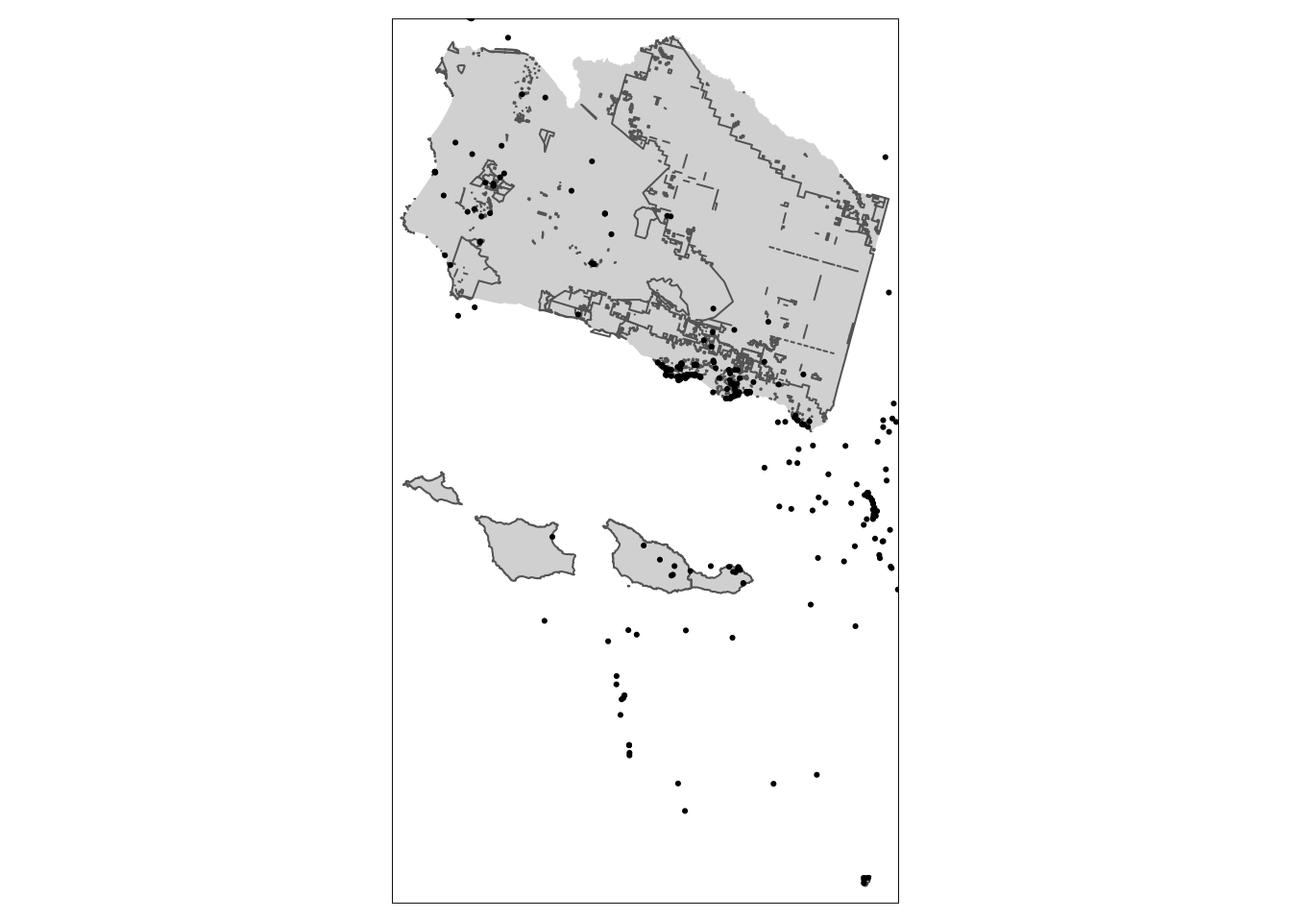
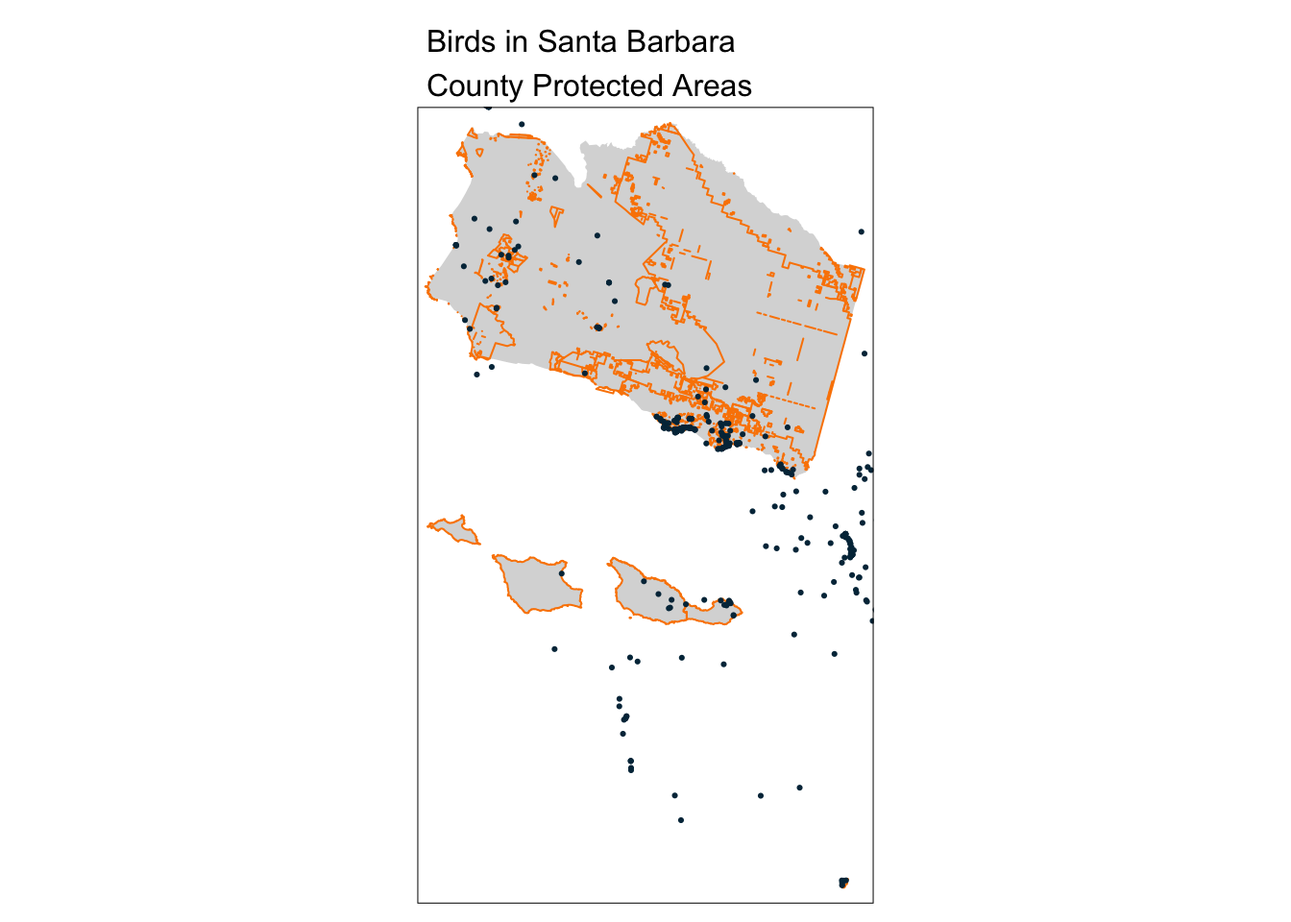
Update week3-discussion-answerKey.qmd

diff --git a/docs/course-materials/discussions/answer-keys/week3-discussion-answerKey.html b/docs/course-materials/discussions/answer-keys/week3-discussion-answerKey.html
@@ -7,7 +7,7 @@
 <meta name="viewport" content="width=device-width, initial-scale=1.0, user-scalable=yes">
 
 <meta name="author" content="Alessandra Vidal Meza">
-<meta name="dcterms.date" content="2024-10-02">
+<meta name="dcterms.date" content="2024-10-15">
 
 <title>Week 3: Discussion Section - Answer Key</title>
 <style>
@@ -199,7 +199,7 @@ pre > code.sourceCode > span > a:first-child::before { text-decoration: underlin
       <div>
       <div class="quarto-title-meta-heading">Published</div>
       <div class="quarto-title-meta-contents">
-        <p class="date">October 2, 2024</p>
+        <p class="date">October 15, 2024</p>
       </div>
     </div>
     
@@ -215,9 +215,9 @@ pre > code.sourceCode > span > a:first-child::before { text-decoration: underlin
     <h2 id="toc-title">On this page</h2>
    
   <ul>
-  <li><a href="#bird-observations-within-santa-barbaras-pas" id="toc-bird-observations-within-santa-barbaras-pas" class="nav-link active" data-scroll-target="#bird-observations-within-santa-barbaras-pas">1. Bird Observations within Santa Barbara’s PAs</a></li>
-  <li><a href="#pas-within-15-km-of-goleta" id="toc-pas-within-15-km-of-goleta" class="nav-link" data-scroll-target="#pas-within-15-km-of-goleta">2. PAs within 15 km of Goleta</a></li>
-  <li><a href="#distance-between-goleta-and-dangermond-preserve" id="toc-distance-between-goleta-and-dangermond-preserve" class="nav-link" data-scroll-target="#distance-between-goleta-and-dangermond-preserve">3. Distance between Goleta and Dangermond Preserve</a></li>
+  <li><a href="#find-bird-observations-within-santa-barbaras-pas" id="toc-find-bird-observations-within-santa-barbaras-pas" class="nav-link active" data-scroll-target="#find-bird-observations-within-santa-barbaras-pas">Find Bird Observations within Santa Barbara’s PAs</a></li>
+  <li><a href="#find-pas-within-15-km-of-goleta" id="toc-find-pas-within-15-km-of-goleta" class="nav-link" data-scroll-target="#find-pas-within-15-km-of-goleta">Find PAs within 15 km of Goleta</a></li>
+  <li><a href="#find-distance-between-goleta-and-dangermond-preserve" id="toc-find-distance-between-goleta-and-dangermond-preserve" class="nav-link" data-scroll-target="#find-distance-between-goleta-and-dangermond-preserve">Find Distance between Goleta and Dangermond Preserve</a></li>
   </ul>
 </nav>
     </div>
@@ -228,8 +228,8 @@ pre > code.sourceCode > span > a:first-child::before { text-decoration: underlin
 
 
 
-<section id="bird-observations-within-santa-barbaras-pas" class="level2">
-<h2 class="anchored" data-anchor-id="bird-observations-within-santa-barbaras-pas">1. Bird Observations within Santa Barbara’s PAs</h2>
+<section id="find-bird-observations-within-santa-barbaras-pas" class="level2">
+<h2 class="anchored" data-anchor-id="find-bird-observations-within-santa-barbaras-pas">Find Bird Observations within Santa Barbara’s PAs</h2>
 <div class="cell">
 <div class="sourceCode cell-code" id="cb1"><pre class="sourceCode r code-with-copy"><code class="sourceCode r"><span id="cb1-1"><a href="#cb1-1" aria-hidden="true" tabindex="-1"></a><span class="fu">library</span>(here)</span>
 <span id="cb1-2"><a href="#cb1-2" aria-hidden="true" tabindex="-1"></a><span class="fu">library</span>(tidyverse)</span>
@@ -237,20 +237,23 @@ pre > code.sourceCode > span > a:first-child::before { text-decoration: underlin
 <span id="cb1-4"><a href="#cb1-4" aria-hidden="true" tabindex="-1"></a><span class="fu">library</span>(tmap)</span></code><button title="Copy to Clipboard" class="code-copy-button"><i class="bi"></i></button></pre></div>
 </div>
 <div class="cell">
-<div class="sourceCode cell-code" id="cb2"><pre class="sourceCode r code-with-copy"><code class="sourceCode r"><span id="cb2-1"><a href="#cb2-1" aria-hidden="true" tabindex="-1"></a><span class="co"># read in Santa Barbara protected areas vector</span></span>
-<span id="cb2-2"><a href="#cb2-2" aria-hidden="true" tabindex="-1"></a>sb_protected_areas <span class="ot">&lt;-</span> <span class="fu">read_sf</span>(here<span class="sc">::</span><span class="fu">here</span>(<span class="st">"data"</span>, <span class="st">"week3-discussion"</span>, <span class="st">"cpad_super_units_sb.shp"</span>)) <span class="sc">%&gt;%</span> </span>
+<div class="sourceCode cell-code" id="cb2"><pre class="sourceCode r code-with-copy"><code class="sourceCode r"><span id="cb2-1"><a href="#cb2-1" aria-hidden="true" tabindex="-1"></a><span class="co"># Read Santa Barbara PA vectors</span></span>
+<span id="cb2-2"><a href="#cb2-2" aria-hidden="true" tabindex="-1"></a>sb_protected_areas <span class="ot">&lt;-</span> <span class="fu">read_sf</span>(here<span class="sc">::</span><span class="fu">here</span>(<span class="st">"data"</span>, <span class="st">"cpad_super_units_sb.shp"</span>)) <span class="sc">%&gt;%</span> </span>
 <span id="cb2-3"><a href="#cb2-3" aria-hidden="true" tabindex="-1"></a>  <span class="fu">st_transform</span>(<span class="st">"ESRI:102009"</span>)</span>
-<span id="cb2-4"><a href="#cb2-4" aria-hidden="true" tabindex="-1"></a><span class="co"># read in Santa Barbara city boundaries vector</span></span>
-<span id="cb2-5"><a href="#cb2-5" aria-hidden="true" tabindex="-1"></a>sb_city_boundaries <span class="ot">&lt;-</span> <span class="fu">read_sf</span>(here<span class="sc">::</span><span class="fu">here</span>(<span class="st">"data"</span>, <span class="st">"week3-discussion"</span>, <span class="st">"sb_city_boundaries_2003.shp"</span>)) <span class="sc">%&gt;%</span></span>
-<span id="cb2-6"><a href="#cb2-6" aria-hidden="true" tabindex="-1"></a>  <span class="fu">st_transform</span>(<span class="st">"ESRI:102009"</span>)</span>
-<span id="cb2-7"><a href="#cb2-7" aria-hidden="true" tabindex="-1"></a><span class="co"># read in Santa Barbara County boundaries vector</span></span>
-<span id="cb2-8"><a href="#cb2-8" aria-hidden="true" tabindex="-1"></a>sb_county_boundary <span class="ot">&lt;-</span> <span class="fu">read_sf</span>(here<span class="sc">::</span><span class="fu">here</span>(<span class="st">"data"</span>, <span class="st">"week3-discussion"</span>, <span class="st">"sb_county_boundary_2020.shp"</span>)) <span class="sc">%&gt;%</span></span>
-<span id="cb2-9"><a href="#cb2-9" aria-hidden="true" tabindex="-1"></a>  <span class="fu">st_transform</span>(<span class="st">"ESRI:102009"</span>)</span>
-<span id="cb2-10"><a href="#cb2-10" aria-hidden="true" tabindex="-1"></a><span class="co"># read in iNaturalist bird observations from 2020-2024</span></span>
-<span id="cb2-11"><a href="#cb2-11" aria-hidden="true" tabindex="-1"></a>aves <span class="ot">&lt;-</span> <span class="fu">read_sf</span>(here<span class="sc">::</span><span class="fu">here</span>(<span class="st">"data"</span>, <span class="st">"week3-discussion"</span>, <span class="st">"aves_observations_2020_2024.shp"</span>)) <span class="sc">%&gt;%</span></span>
-<span id="cb2-12"><a href="#cb2-12" aria-hidden="true" tabindex="-1"></a>  <span class="fu">st_transform</span>(<span class="st">"ESRI:102009"</span>)</span></code><button title="Copy to Clipboard" class="code-copy-button"><i class="bi"></i></button></pre></div>
+<span id="cb2-4"><a href="#cb2-4" aria-hidden="true" tabindex="-1"></a></span>
+<span id="cb2-5"><a href="#cb2-5" aria-hidden="true" tabindex="-1"></a><span class="co"># Read Santa Barbara's city boundaries vector</span></span>
+<span id="cb2-6"><a href="#cb2-6" aria-hidden="true" tabindex="-1"></a>sb_city_boundaries <span class="ot">&lt;-</span> <span class="fu">read_sf</span>(here<span class="sc">::</span><span class="fu">here</span>(<span class="st">"data"</span>, <span class="st">"sb_city_boundaries_2003.shp"</span>)) <span class="sc">%&gt;%</span></span>
+<span id="cb2-7"><a href="#cb2-7" aria-hidden="true" tabindex="-1"></a>  <span class="fu">st_transform</span>(<span class="st">"ESRI:102009"</span>)</span>
+<span id="cb2-8"><a href="#cb2-8" aria-hidden="true" tabindex="-1"></a></span>
+<span id="cb2-9"><a href="#cb2-9" aria-hidden="true" tabindex="-1"></a><span class="co"># Read Santa Barbara's county boundaries vector</span></span>
+<span id="cb2-10"><a href="#cb2-10" aria-hidden="true" tabindex="-1"></a>sb_county_boundary <span class="ot">&lt;-</span> <span class="fu">read_sf</span>(here<span class="sc">::</span><span class="fu">here</span>(<span class="st">"data"</span>, <span class="st">"sb_county_boundary_2020.shp"</span>)) <span class="sc">%&gt;%</span></span>
+<span id="cb2-11"><a href="#cb2-11" aria-hidden="true" tabindex="-1"></a>  <span class="fu">st_transform</span>(<span class="st">"ESRI:102009"</span>)</span>
+<span id="cb2-12"><a href="#cb2-12" aria-hidden="true" tabindex="-1"></a></span>
+<span id="cb2-13"><a href="#cb2-13" aria-hidden="true" tabindex="-1"></a><span class="co"># Read iNaturalist bird observations from 2020-2024</span></span>
+<span id="cb2-14"><a href="#cb2-14" aria-hidden="true" tabindex="-1"></a>aves <span class="ot">&lt;-</span> <span class="fu">read_sf</span>(here<span class="sc">::</span><span class="fu">here</span>(<span class="st">"data"</span>, <span class="st">"aves_observations_2020_2024.shp"</span>)) <span class="sc">%&gt;%</span></span>
+<span id="cb2-15"><a href="#cb2-15" aria-hidden="true" tabindex="-1"></a>  <span class="fu">st_transform</span>(<span class="st">"ESRI:102009"</span>)</span></code><button title="Copy to Clipboard" class="code-copy-button"><i class="bi"></i></button></pre></div>
 </div>
-<p>Approach with spatial subset:</p>
+<p>Approach with spatial subset: - Spatially subset the PA geometries to only those with bird observations</p>
 <div class="cell">
 <div class="cell-output-display">
 <div>
@@ -263,17 +266,18 @@ pre > code.sourceCode > span > a:first-child::before { text-decoration: underlin
 <pre><code>[1] 35</code></pre>
 </div>
 </div>
-<p>Approach with a spatial join:</p>
+<p>Approach with a spatial join: - Append the Protected Area geometries to the bird observation geometries</p>
 <div class="cell">
-<div class="sourceCode cell-code" id="cb4"><pre class="sourceCode r code-with-copy"><code class="sourceCode r"><span id="cb4-1"><a href="#cb4-1" aria-hidden="true" tabindex="-1"></a><span class="co"># append the protected area geoms to the bird observation geoms</span></span>
-<span id="cb4-2"><a href="#cb4-2" aria-hidden="true" tabindex="-1"></a>aves_PA_join <span class="ot">&lt;-</span> <span class="fu">st_join</span>(aves, sb_protected_areas)</span>
-<span id="cb4-3"><a href="#cb4-3" aria-hidden="true" tabindex="-1"></a></span>
-<span id="cb4-4"><a href="#cb4-4" aria-hidden="true" tabindex="-1"></a><span class="fu">tm_shape</span>(sb_county_boundary) <span class="sc">+</span></span>
-<span id="cb4-5"><a href="#cb4-5" aria-hidden="true" tabindex="-1"></a>  <span class="fu">tm_fill</span>() <span class="sc">+</span></span>
-<span id="cb4-6"><a href="#cb4-6" aria-hidden="true" tabindex="-1"></a>  <span class="fu">tm_shape</span>(sb_protected_areas) <span class="sc">+</span></span>
-<span id="cb4-7"><a href="#cb4-7" aria-hidden="true" tabindex="-1"></a>  <span class="fu">tm_borders</span>(<span class="at">lwd =</span> <span class="dv">1</span>) <span class="sc">+</span></span>
-<span id="cb4-8"><a href="#cb4-8" aria-hidden="true" tabindex="-1"></a>  <span class="fu">tm_shape</span>(aves_PA_join) <span class="sc">+</span></span>
-<span id="cb4-9"><a href="#cb4-9" aria-hidden="true" tabindex="-1"></a>  <span class="fu">tm_dots</span>()</span></code><button title="Copy to Clipboard" class="code-copy-button"><i class="bi"></i></button></pre></div>
+<div class="sourceCode cell-code" id="cb4"><pre class="sourceCode r code-with-copy"><code class="sourceCode r"><span id="cb4-1"><a href="#cb4-1" aria-hidden="true" tabindex="-1"></a>aves_PA_join <span class="ot">&lt;-</span> <span class="fu">st_join</span>(aves, sb_protected_areas)</span>
+<span id="cb4-2"><a href="#cb4-2" aria-hidden="true" tabindex="-1"></a></span>
+<span id="cb4-3"><a href="#cb4-3" aria-hidden="true" tabindex="-1"></a><span class="fu">tm_shape</span>(sb_county_boundary) <span class="sc">+</span></span>
+<span id="cb4-4"><a href="#cb4-4" aria-hidden="true" tabindex="-1"></a>  <span class="fu">tm_fill</span>() <span class="sc">+</span></span>
+<span id="cb4-5"><a href="#cb4-5" aria-hidden="true" tabindex="-1"></a>  <span class="fu">tm_shape</span>(sb_protected_areas) <span class="sc">+</span></span>
+<span id="cb4-6"><a href="#cb4-6" aria-hidden="true" tabindex="-1"></a>  <span class="fu">tm_borders</span>(<span class="at">lwd =</span> <span class="dv">1</span>, <span class="at">col =</span> <span class="st">"#fb8500"</span>) <span class="sc">+</span></span>
+<span id="cb4-7"><a href="#cb4-7" aria-hidden="true" tabindex="-1"></a>  <span class="fu">tm_shape</span>(aves_PA_join) <span class="sc">+</span></span>
+<span id="cb4-8"><a href="#cb4-8" aria-hidden="true" tabindex="-1"></a>  <span class="fu">tm_dots</span>(<span class="at">col =</span> <span class="st">"#023047"</span>) <span class="sc">+</span></span>
+<span id="cb4-9"><a href="#cb4-9" aria-hidden="true" tabindex="-1"></a>  <span class="fu">tm_layout</span>(<span class="at">main.title =</span> <span class="st">"Birds in Santa Barbara</span><span class="sc">\n</span><span class="st">County Protected Areas"</span>,</span>
+<span id="cb4-10"><a href="#cb4-10" aria-hidden="true" tabindex="-1"></a>            <span class="at">main.title.size =</span> <span class="dv">1</span>)</span></code><button title="Copy to Clipboard" class="code-copy-button"><i class="bi"></i></button></pre></div>
 <div class="cell-output-display">
 <div>
 <figure class="figure">
@@ -286,25 +290,26 @@ pre > code.sourceCode > span > a:first-child::before { text-decoration: underlin
 <pre><code>[1] 500</code></pre>
 </div>
 </div>
-<p>Add a 5 km buffer around the protected areas:</p>
+<p>And try adding a 5 km buffer around the protected areas:</p>
 <div class="cell">
-<div class="sourceCode cell-code" id="cb7"><pre class="sourceCode r code-with-copy"><code class="sourceCode r"><span id="cb7-1"><a href="#cb7-1" aria-hidden="true" tabindex="-1"></a><span class="co"># check if units are in meters</span></span>
+<div class="sourceCode cell-code" id="cb7"><pre class="sourceCode r code-with-copy"><code class="sourceCode r"><span id="cb7-1"><a href="#cb7-1" aria-hidden="true" tabindex="-1"></a><span class="co"># Check if units are in meters</span></span>
 <span id="cb7-2"><a href="#cb7-2" aria-hidden="true" tabindex="-1"></a><span class="fu">st_crs</span>(sb_protected_areas)<span class="sc">$</span>units</span></code><button title="Copy to Clipboard" class="code-copy-button"><i class="bi"></i></button></pre></div>
 <div class="cell-output cell-output-stdout">
 <pre><code>[1] "m"</code></pre>
 </div>
-<div class="sourceCode cell-code" id="cb9"><pre class="sourceCode r code-with-copy"><code class="sourceCode r"><span id="cb9-1"><a href="#cb9-1" aria-hidden="true" tabindex="-1"></a><span class="co"># create 5000 m buffer around protected areas</span></span>
+<div class="sourceCode cell-code" id="cb9"><pre class="sourceCode r code-with-copy"><code class="sourceCode r"><span id="cb9-1"><a href="#cb9-1" aria-hidden="true" tabindex="-1"></a><span class="co"># Create 5000m buffer around PAs</span></span>
 <span id="cb9-2"><a href="#cb9-2" aria-hidden="true" tabindex="-1"></a>PA_buffer_5km <span class="ot">&lt;-</span> <span class="fu">st_buffer</span>(sb_protected_areas, <span class="at">dist =</span> <span class="dv">5000</span>)</span>
-<span id="cb9-3"><a href="#cb9-3" aria-hidden="true" tabindex="-1"></a><span class="co"># subset the buffered protected area geoms to only those with bird observations</span></span>
-<span id="cb9-4"><a href="#cb9-4" aria-hidden="true" tabindex="-1"></a>aves_buffer_subset <span class="ot">&lt;-</span> PA_buffer_5km[aves, ]</span>
-<span id="cb9-5"><a href="#cb9-5" aria-hidden="true" tabindex="-1"></a></span>
-<span id="cb9-6"><a href="#cb9-6" aria-hidden="true" tabindex="-1"></a><span class="fu">tm_shape</span>(sb_county_boundary) <span class="sc">+</span></span>
-<span id="cb9-7"><a href="#cb9-7" aria-hidden="true" tabindex="-1"></a>  <span class="fu">tm_fill</span>() <span class="sc">+</span></span>
-<span id="cb9-8"><a href="#cb9-8" aria-hidden="true" tabindex="-1"></a>  <span class="fu">tm_shape</span>(sb_protected_areas) <span class="sc">+</span></span>
-<span id="cb9-9"><a href="#cb9-9" aria-hidden="true" tabindex="-1"></a>  <span class="fu">tm_borders</span>(<span class="at">lwd =</span> <span class="dv">1</span>,</span>
-<span id="cb9-10"><a href="#cb9-10" aria-hidden="true" tabindex="-1"></a>             <span class="at">col =</span> <span class="st">"#fb8500"</span>) <span class="sc">+</span></span>
-<span id="cb9-11"><a href="#cb9-11" aria-hidden="true" tabindex="-1"></a>  <span class="fu">tm_shape</span>(aves_buffer_subset) <span class="sc">+</span></span>
-<span id="cb9-12"><a href="#cb9-12" aria-hidden="true" tabindex="-1"></a>  <span class="fu">tm_dots</span>(<span class="at">col =</span> <span class="st">"#023047"</span>)</span></code><button title="Copy to Clipboard" class="code-copy-button"><i class="bi"></i></button></pre></div>
+<span id="cb9-3"><a href="#cb9-3" aria-hidden="true" tabindex="-1"></a></span>
+<span id="cb9-4"><a href="#cb9-4" aria-hidden="true" tabindex="-1"></a><span class="co"># Subset the buffered PA geoms to only those with bird observations</span></span>
+<span id="cb9-5"><a href="#cb9-5" aria-hidden="true" tabindex="-1"></a>aves_buffer_subset <span class="ot">&lt;-</span> PA_buffer_5km[aves, ]</span>
+<span id="cb9-6"><a href="#cb9-6" aria-hidden="true" tabindex="-1"></a></span>
+<span id="cb9-7"><a href="#cb9-7" aria-hidden="true" tabindex="-1"></a><span class="fu">tm_shape</span>(sb_county_boundary) <span class="sc">+</span></span>
+<span id="cb9-8"><a href="#cb9-8" aria-hidden="true" tabindex="-1"></a>  <span class="fu">tm_fill</span>() <span class="sc">+</span></span>
+<span id="cb9-9"><a href="#cb9-9" aria-hidden="true" tabindex="-1"></a>  <span class="fu">tm_shape</span>(sb_protected_areas) <span class="sc">+</span></span>
+<span id="cb9-10"><a href="#cb9-10" aria-hidden="true" tabindex="-1"></a>  <span class="fu">tm_borders</span>(<span class="at">lwd =</span> <span class="dv">1</span>,</span>
+<span id="cb9-11"><a href="#cb9-11" aria-hidden="true" tabindex="-1"></a>             <span class="at">col =</span> <span class="st">"#fb8500"</span>) <span class="sc">+</span></span>
+<span id="cb9-12"><a href="#cb9-12" aria-hidden="true" tabindex="-1"></a>  <span class="fu">tm_shape</span>(aves_buffer_subset) <span class="sc">+</span></span>
+<span id="cb9-13"><a href="#cb9-13" aria-hidden="true" tabindex="-1"></a>  <span class="fu">tm_dots</span>(<span class="at">col =</span> <span class="st">"#023047"</span>)</span></code><button title="Copy to Clipboard" class="code-copy-button"><i class="bi"></i></button></pre></div>
 <div class="cell-output-display">
 <div>
 <figure class="figure">
@@ -318,70 +323,62 @@ pre > code.sourceCode > span > a:first-child::before { text-decoration: underlin
 </div>
 </div>
 </section>
-<section id="pas-within-15-km-of-goleta" class="level2">
-<h2 class="anchored" data-anchor-id="pas-within-15-km-of-goleta">2. PAs within 15 km of Goleta</h2>
+<section id="find-pas-within-15-km-of-goleta" class="level2">
+<h2 class="anchored" data-anchor-id="find-pas-within-15-km-of-goleta">Find PAs within 15 km of Goleta</h2>
 <div class="cell">
-<div class="sourceCode cell-code" id="cb12"><pre class="sourceCode r code-with-copy"><code class="sourceCode r"><span id="cb12-1"><a href="#cb12-1" aria-hidden="true" tabindex="-1"></a><span class="co"># subset county to just Goleta</span></span>
+<div class="sourceCode cell-code" id="cb12"><pre class="sourceCode r code-with-copy"><code class="sourceCode r"><span id="cb12-1"><a href="#cb12-1" aria-hidden="true" tabindex="-1"></a><span class="co"># Subset SB county to Goleta</span></span>
 <span id="cb12-2"><a href="#cb12-2" aria-hidden="true" tabindex="-1"></a>goleta <span class="ot">&lt;-</span> sb_city_boundaries <span class="sc">%&gt;%</span></span>
 <span id="cb12-3"><a href="#cb12-3" aria-hidden="true" tabindex="-1"></a>  dplyr<span class="sc">::</span><span class="fu">filter</span>(NAME <span class="sc">==</span> <span class="st">"Goleta"</span>)</span>
 <span id="cb12-4"><a href="#cb12-4" aria-hidden="true" tabindex="-1"></a></span>
-<span id="cb12-5"><a href="#cb12-5" aria-hidden="true" tabindex="-1"></a><span class="co"># buffer goleta by 15km</span></span>
+<span id="cb12-5"><a href="#cb12-5" aria-hidden="true" tabindex="-1"></a><span class="co"># Create 15km buffer around Goleta</span></span>
 <span id="cb12-6"><a href="#cb12-6" aria-hidden="true" tabindex="-1"></a><span class="fu">st_crs</span>(goleta)<span class="sc">$</span>units</span></code><button title="Copy to Clipboard" class="code-copy-button"><i class="bi"></i></button></pre></div>
 <div class="cell-output cell-output-stdout">
 <pre><code>[1] "m"</code></pre>
 </div>
 <div class="sourceCode cell-code" id="cb14"><pre class="sourceCode r code-with-copy"><code class="sourceCode r"><span id="cb14-1"><a href="#cb14-1" aria-hidden="true" tabindex="-1"></a>goleta_buffer_15km <span class="ot">&lt;-</span> <span class="fu">st_buffer</span>(goleta, <span class="at">dist =</span> <span class="dv">15000</span>)</span>
 <span id="cb14-2"><a href="#cb14-2" aria-hidden="true" tabindex="-1"></a></span>
-<span id="cb14-3"><a href="#cb14-3" aria-hidden="true" tabindex="-1"></a><span class="co"># explore the different outputs with different spatial operations</span></span>
+<span id="cb14-3"><a href="#cb14-3" aria-hidden="true" tabindex="-1"></a><span class="co"># Explore the different outputs with different spatial operations</span></span>
 <span id="cb14-4"><a href="#cb14-4" aria-hidden="true" tabindex="-1"></a>goleta_PAs_within <span class="ot">&lt;-</span> <span class="fu">st_within</span>(sb_protected_areas, goleta_buffer_15km)</span>
 <span id="cb14-5"><a href="#cb14-5" aria-hidden="true" tabindex="-1"></a>goleta_PAs_intersect <span class="ot">&lt;-</span> <span class="fu">st_intersects</span>(sb_protected_areas, goleta_buffer_15km)</span>
-<span id="cb14-6"><a href="#cb14-6" aria-hidden="true" tabindex="-1"></a>goleta_PAs_intersection <span class="ot">&lt;-</span> <span class="fu">st_intersection</span>(sb_protected_areas, goleta_buffer_15km)</span></code><button title="Copy to Clipboard" class="code-copy-button"><i class="bi"></i></button></pre></div>
-<div class="cell-output cell-output-stderr">
-<pre><code>Warning: attribute variables are assumed to be spatially constant throughout
-all geometries</code></pre>
-</div>
-<div class="sourceCode cell-code" id="cb16"><pre class="sourceCode r code-with-copy"><code class="sourceCode r"><span id="cb16-1"><a href="#cb16-1" aria-hidden="true" tabindex="-1"></a><span class="co"># Check class</span></span>
-<span id="cb16-2"><a href="#cb16-2" aria-hidden="true" tabindex="-1"></a><span class="fu">class</span>(goleta_PAs_intersect) <span class="sc">==</span> <span class="fu">class</span>(goleta_PAs_intersection)</span></code><button title="Copy to Clipboard" class="code-copy-button"><i class="bi"></i></button></pre></div>
+<span id="cb14-6"><a href="#cb14-6" aria-hidden="true" tabindex="-1"></a>goleta_PAs_intersection <span class="ot">&lt;-</span> <span class="fu">st_intersection</span>(sb_protected_areas, goleta_buffer_15km)</span>
+<span id="cb14-7"><a href="#cb14-7" aria-hidden="true" tabindex="-1"></a></span>
+<span id="cb14-8"><a href="#cb14-8" aria-hidden="true" tabindex="-1"></a><span class="co"># Check class</span></span>
+<span id="cb14-9"><a href="#cb14-9" aria-hidden="true" tabindex="-1"></a><span class="fu">class</span>(goleta_PAs_intersect) <span class="sc">==</span> <span class="fu">class</span>(goleta_PAs_intersection)</span></code><button title="Copy to Clipboard" class="code-copy-button"><i class="bi"></i></button></pre></div>
 <div class="cell-output cell-output-stdout">
 <pre><code>[1] FALSE FALSE FALSE FALSE</code></pre>
 </div>
-<div class="sourceCode cell-code" id="cb18"><pre class="sourceCode r code-with-copy"><code class="sourceCode r"><span id="cb18-1"><a href="#cb18-1" aria-hidden="true" tabindex="-1"></a><span class="co"># Distance-based join</span></span>
-<span id="cb18-2"><a href="#cb18-2" aria-hidden="true" tabindex="-1"></a>goleta_PAs_join <span class="ot">&lt;-</span> <span class="fu">st_join</span>(sb_protected_areas, goleta, st_is_within_distance, <span class="at">dist =</span> <span class="dv">15000</span>)</span>
-<span id="cb18-3"><a href="#cb18-3" aria-hidden="true" tabindex="-1"></a></span>
-<span id="cb18-4"><a href="#cb18-4" aria-hidden="true" tabindex="-1"></a><span class="co"># print the number of observations included in outputs</span></span>
-<span id="cb18-5"><a href="#cb18-5" aria-hidden="true" tabindex="-1"></a><span class="fu">nrow</span>(goleta_PAs_intersection)</span></code><button title="Copy to Clipboard" class="code-copy-button"><i class="bi"></i></button></pre></div>
+<div class="sourceCode cell-code" id="cb16"><pre class="sourceCode r code-with-copy"><code class="sourceCode r"><span id="cb16-1"><a href="#cb16-1" aria-hidden="true" tabindex="-1"></a><span class="co"># Compute distance-based join</span></span>
+<span id="cb16-2"><a href="#cb16-2" aria-hidden="true" tabindex="-1"></a>goleta_PAs_join <span class="ot">&lt;-</span> <span class="fu">st_join</span>(sb_protected_areas, goleta, st_is_within_distance, <span class="at">dist =</span> <span class="dv">15000</span>)</span>
+<span id="cb16-3"><a href="#cb16-3" aria-hidden="true" tabindex="-1"></a></span>
+<span id="cb16-4"><a href="#cb16-4" aria-hidden="true" tabindex="-1"></a><span class="co"># Print the number of observations included in outputs</span></span>
+<span id="cb16-5"><a href="#cb16-5" aria-hidden="true" tabindex="-1"></a><span class="fu">nrow</span>(goleta_PAs_intersection)</span></code><button title="Copy to Clipboard" class="code-copy-button"><i class="bi"></i></button></pre></div>
 <div class="cell-output cell-output-stdout">
 <pre><code>[1] 185</code></pre>
 </div>
-<div class="sourceCode cell-code" id="cb20"><pre class="sourceCode r code-with-copy"><code class="sourceCode r"><span id="cb20-1"><a href="#cb20-1" aria-hidden="true" tabindex="-1"></a><span class="fu">nrow</span>(goleta_PAs_join)</span></code><button title="Copy to Clipboard" class="code-copy-button"><i class="bi"></i></button></pre></div>
+<div class="sourceCode cell-code" id="cb18"><pre class="sourceCode r code-with-copy"><code class="sourceCode r"><span id="cb18-1"><a href="#cb18-1" aria-hidden="true" tabindex="-1"></a><span class="fu">nrow</span>(goleta_PAs_join)</span></code><button title="Copy to Clipboard" class="code-copy-button"><i class="bi"></i></button></pre></div>
 <div class="cell-output cell-output-stdout">
 <pre><code>[1] 369</code></pre>
 </div>
 </div>
 </section>
-<section id="distance-between-goleta-and-dangermond-preserve" class="level2">
-<h2 class="anchored" data-anchor-id="distance-between-goleta-and-dangermond-preserve">3. Distance between Goleta and Dangermond Preserve</h2>
+<section id="find-distance-between-goleta-and-dangermond-preserve" class="level2">
+<h2 class="anchored" data-anchor-id="find-distance-between-goleta-and-dangermond-preserve">Find Distance between Goleta and Dangermond Preserve</h2>
 <div class="cell">
-<div class="sourceCode cell-code" id="cb22"><pre class="sourceCode r code-with-copy"><code class="sourceCode r"><span id="cb22-1"><a href="#cb22-1" aria-hidden="true" tabindex="-1"></a><span class="co"># subset protected area to just Dangermond preserve</span></span>
-<span id="cb22-2"><a href="#cb22-2" aria-hidden="true" tabindex="-1"></a>dangermond <span class="ot">&lt;-</span> sb_protected_areas <span class="sc">%&gt;%</span></span>
-<span id="cb22-3"><a href="#cb22-3" aria-hidden="true" tabindex="-1"></a>  dplyr<span class="sc">::</span><span class="fu">filter</span>(UNIT_NAME <span class="sc">==</span> <span class="st">"Jack and Laura Dangermond Preserve"</span>)</span>
-<span id="cb22-4"><a href="#cb22-4" aria-hidden="true" tabindex="-1"></a></span>
-<span id="cb22-5"><a href="#cb22-5" aria-hidden="true" tabindex="-1"></a><span class="co"># compute the distance between geometries edges, output as a matrix</span></span>
-<span id="cb22-6"><a href="#cb22-6" aria-hidden="true" tabindex="-1"></a>danger_dist <span class="ot">&lt;-</span> <span class="fu">st_distance</span>(goleta, dangermond)</span>
-<span id="cb22-7"><a href="#cb22-7" aria-hidden="true" tabindex="-1"></a></span>
-<span id="cb22-8"><a href="#cb22-8" aria-hidden="true" tabindex="-1"></a><span class="co"># calculate the geometric center of the Dangermond &amp; Goleta geometries</span></span>
-<span id="cb22-9"><a href="#cb22-9" aria-hidden="true" tabindex="-1"></a>dangermond_centroid <span class="ot">&lt;-</span> <span class="fu">st_centroid</span>(dangermond)</span></code><button title="Copy to Clipboard" class="code-copy-button"><i class="bi"></i></button></pre></div>
-<div class="cell-output cell-output-stderr">
-<pre><code>Warning: st_centroid assumes attributes are constant over geometries</code></pre>
-</div>
-<div class="sourceCode cell-code" id="cb24"><pre class="sourceCode r code-with-copy"><code class="sourceCode r"><span id="cb24-1"><a href="#cb24-1" aria-hidden="true" tabindex="-1"></a>goleta_centroid <span class="ot">&lt;-</span> <span class="fu">st_centroid</span>(goleta)</span></code><button title="Copy to Clipboard" class="code-copy-button"><i class="bi"></i></button></pre></div>
-<div class="cell-output cell-output-stderr">
-<pre><code>Warning: st_centroid assumes attributes are constant over geometries</code></pre>
-</div>
-<div class="sourceCode cell-code" id="cb26"><pre class="sourceCode r code-with-copy"><code class="sourceCode r"><span id="cb26-1"><a href="#cb26-1" aria-hidden="true" tabindex="-1"></a>danger_dist_centroid <span class="ot">&lt;-</span> <span class="fu">st_distance</span>(goleta_centroid, dangermond_centroid)</span>
-<span id="cb26-2"><a href="#cb26-2" aria-hidden="true" tabindex="-1"></a></span>
-<span id="cb26-3"><a href="#cb26-3" aria-hidden="true" tabindex="-1"></a><span class="co"># check if the distance matrices are equal</span></span>
-<span id="cb26-4"><a href="#cb26-4" aria-hidden="true" tabindex="-1"></a>danger_dist <span class="sc">==</span> danger_dist_centroid</span></code><button title="Copy to Clipboard" class="code-copy-button"><i class="bi"></i></button></pre></div>
+<div class="sourceCode cell-code" id="cb20"><pre class="sourceCode r code-with-copy"><code class="sourceCode r"><span id="cb20-1"><a href="#cb20-1" aria-hidden="true" tabindex="-1"></a><span class="co"># Subset PA to Dangermond Preserve</span></span>
+<span id="cb20-2"><a href="#cb20-2" aria-hidden="true" tabindex="-1"></a>dangermond <span class="ot">&lt;-</span> sb_protected_areas <span class="sc">%&gt;%</span></span>
+<span id="cb20-3"><a href="#cb20-3" aria-hidden="true" tabindex="-1"></a>  dplyr<span class="sc">::</span><span class="fu">filter</span>(UNIT_NAME <span class="sc">==</span> <span class="st">"Jack and Laura Dangermond Preserve"</span>)</span>
+<span id="cb20-4"><a href="#cb20-4" aria-hidden="true" tabindex="-1"></a></span>
+<span id="cb20-5"><a href="#cb20-5" aria-hidden="true" tabindex="-1"></a><span class="co"># Compute the distance between geometries edges, output as a matrix</span></span>
+<span id="cb20-6"><a href="#cb20-6" aria-hidden="true" tabindex="-1"></a>danger_dist <span class="ot">&lt;-</span> <span class="fu">st_distance</span>(goleta, dangermond)</span>
+<span id="cb20-7"><a href="#cb20-7" aria-hidden="true" tabindex="-1"></a></span>
+<span id="cb20-8"><a href="#cb20-8" aria-hidden="true" tabindex="-1"></a><span class="co"># Calculate the geometric center</span></span>
+<span id="cb20-9"><a href="#cb20-9" aria-hidden="true" tabindex="-1"></a>dangermond_centroid <span class="ot">&lt;-</span> <span class="fu">st_centroid</span>(dangermond)</span>
+<span id="cb20-10"><a href="#cb20-10" aria-hidden="true" tabindex="-1"></a>goleta_centroid <span class="ot">&lt;-</span> <span class="fu">st_centroid</span>(goleta)</span>
+<span id="cb20-11"><a href="#cb20-11" aria-hidden="true" tabindex="-1"></a></span>
+<span id="cb20-12"><a href="#cb20-12" aria-hidden="true" tabindex="-1"></a>danger_dist_centroid <span class="ot">&lt;-</span> <span class="fu">st_distance</span>(goleta_centroid, dangermond_centroid)</span>
+<span id="cb20-13"><a href="#cb20-13" aria-hidden="true" tabindex="-1"></a></span>
+<span id="cb20-14"><a href="#cb20-14" aria-hidden="true" tabindex="-1"></a><span class="co"># Check if the distance matrices are equal</span></span>
+<span id="cb20-15"><a href="#cb20-15" aria-hidden="true" tabindex="-1"></a>danger_dist <span class="sc">==</span> danger_dist_centroid</span></code><button title="Copy to Clipboard" class="code-copy-button"><i class="bi"></i></button></pre></div>
 <div class="cell-output cell-output-stdout">
 <pre><code>      [,1]
 [1,] FALSE</code></pre>

diff --git a/docs/course-materials/week3.html b/docs/course-materials/week3.html
@@ -169,8 +169,8 @@ ul.task-list li input[type="checkbox"] {
   <ul>
   <li><a href="#class-materials" id="toc-class-materials" class="nav-link active" data-scroll-target="#class-materials"><i class="fa-solid fa-person-chalkboard" title="a person pointing at a chalkboard" aria-label="person-chalkboard"></i> Class Materials</a></li>
   <li><a href="#assignment-reminders" id="toc-assignment-reminders" class="nav-link" data-scroll-target="#assignment-reminders"><i class="fa-solid fa-pencil" title="pencil" aria-label="pencil"></i> Assignment Reminders</a></li>
-  <li><a href="#background-reading" id="toc-background-reading" class="nav-link" data-scroll-target="#background-reading">Background Reading</a></li>
-  <li><a href="#technical-background" id="toc-technical-background" class="nav-link" data-scroll-target="#technical-background">Technical Background</a></li>
+  <li><a href="#background-reading" id="toc-background-reading" class="nav-link" data-scroll-target="#background-reading"><i class="fa-solid fa-clipboard-list" title="a clipboard with a To Do list" aria-label="clipboard-list"></i> Background Reading</a></li>
+  <li><a href="#technical-background" id="toc-technical-background" class="nav-link" data-scroll-target="#technical-background"><i class="fa-solid fa-clipboard-list" title="a clipboard with a To Do list" aria-label="clipboard-list"></i> Technical Background</a></li>
   </ul>
 </nav>
     </div>
@@ -259,7 +259,7 @@ Important
 </table>
 </section>
 <section id="background-reading" class="level2">
-<h2 class="anchored" data-anchor-id="background-reading">Background Reading</h2>
+<h2 class="anchored" data-anchor-id="background-reading"><i class="fa-solid fa-clipboard-list" title="a clipboard with a To Do list" aria-label="clipboard-list"></i> Background Reading</h2>
 <ul>
 <li><a href="https://r.geocompx.org/spatial-operations.html" target="_blank">Geocomputation with R, Chapter 4</a></li>
 <li><a href="https://r.geocompx.org/geometry-operations.html" target="_blank">Geocomputation with R, Chapter 5</a></li>
@@ -269,7 +269,7 @@ Important
 </ul>
 </section>
 <section id="technical-background" class="level2">
-<h2 class="anchored" data-anchor-id="technical-background">Technical Background</h2>
+<h2 class="anchored" data-anchor-id="technical-background"><i class="fa-solid fa-clipboard-list" title="a clipboard with a To Do list" aria-label="clipboard-list"></i> Technical Background</h2>
 <ul>
 <li><a href="https://r-spatial.github.io/sf/index.html" target="_blank">sf overview</a></li>
 <li><a href="https://github.com/rstudio/cheatsheets/blob/main/sf.pdf" target="_blank">sf cheatsheet</a></li>
